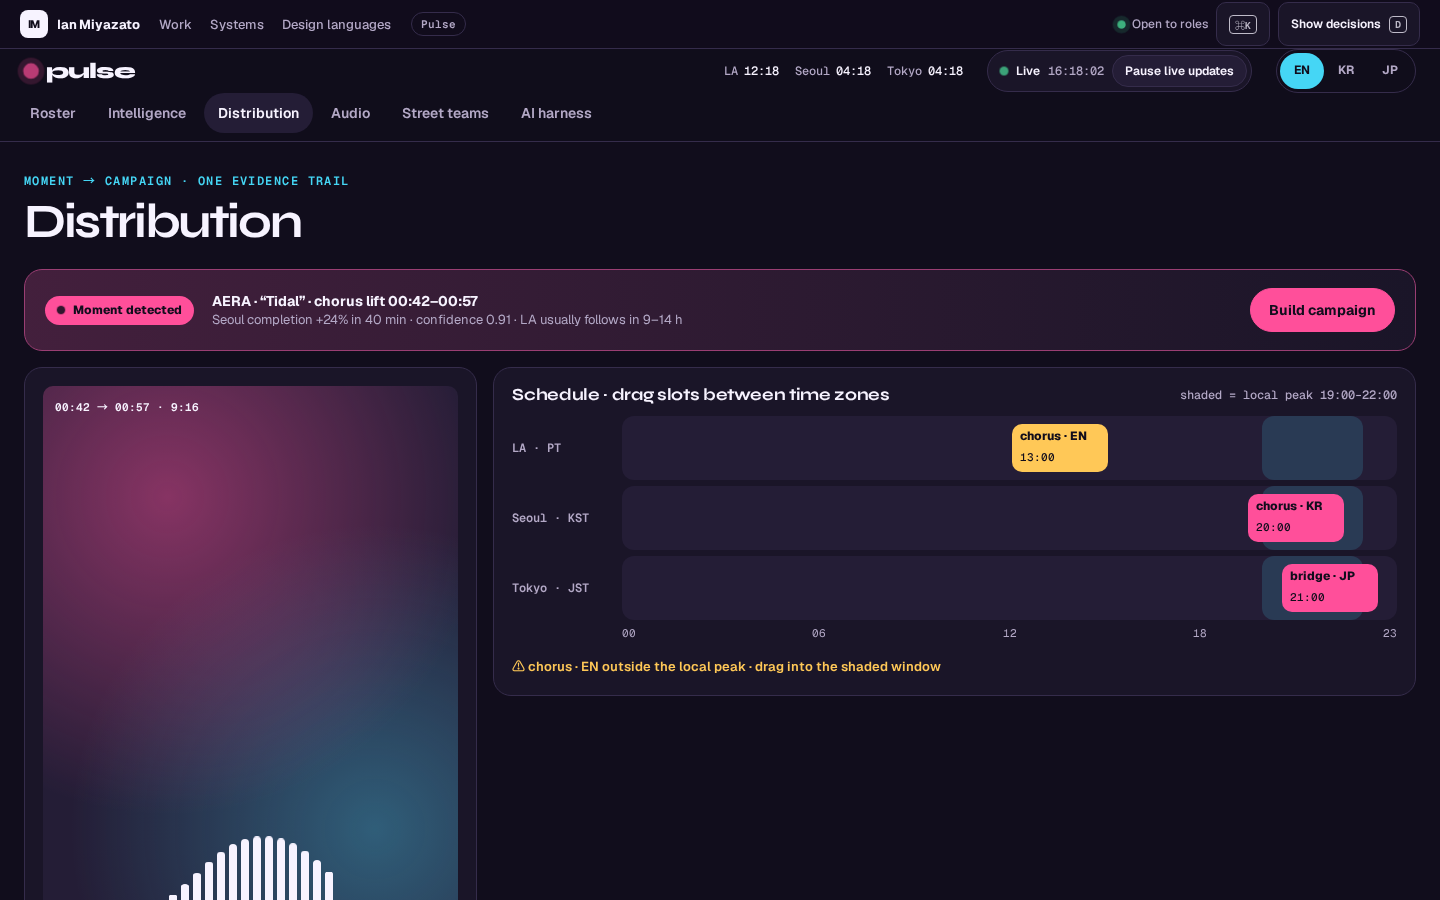
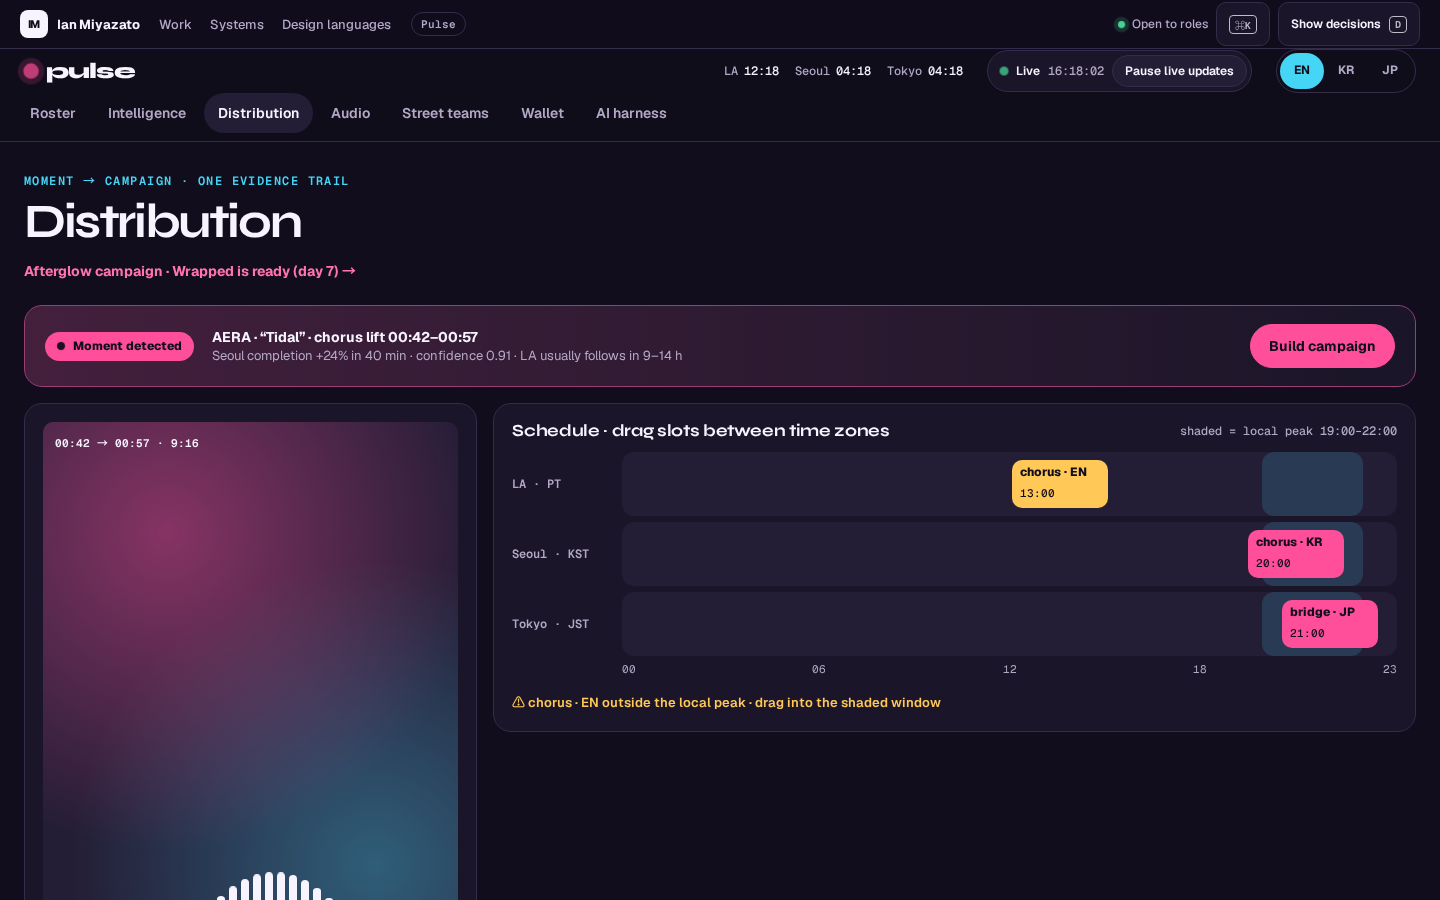
feat(pulse): Campaign Wrapped stories with label sharing and a client-side deck export

diff --git a/apps/pulse/src/routes/distribution/campaigns/afterglow/wrapped/+page.svelte b/apps/pulse/src/routes/distribution/campaigns/afterglow/wrapped/+page.svelte
@@ -1,0 +1,142 @@
+<script lang="ts">
+  import { onMount } from 'svelte';
+  import { base } from '$app/paths';
+  import { view } from '$lib/view.svelte';
+  import { live } from '$lib/world.svelte';
+  import { params } from '$lib/params.svelte';
+  import Layer from '$lib/Layer.svelte';
+  import { usd } from '$lib/wallet';
+
+  const FRAME_MS = 6000;
+  const early = $derived(view.state === 'empty');
+  const views = $derived(18_400_000 + Math.floor(live.elapsed * 42));
+  const earnings = 6_380.25;
+  const stops = [
+    { city: 'Seoul', at: 'Day 1 · 21:40 KST', views: '9.1M', x: 70, y: 40 },
+    { city: 'Tokyo', at: 'Day 2 · 08:15 JST', views: '5.8M', x: 190, y: 70 },
+    { city: 'LA', at: 'Day 3 · 19:00 PT', views: '3.5M', x: 60, y: 150 }
+  ];
+  const cards = ['views', 'moment', 'travel', 'earnings'] as const;
+  const tones = { views: 'pink', moment: 'cyan', travel: 'gold', earnings: 'ink' } as const;
+
+  let index = $state(0);
+  let paused = $state(false);
+  let held = $state(false);
+  let reduce = $state(false);
+  let revealed = $state(false);
+  let sent = $state(false);
+  let deckUrl = $state<string | null>(null);
+  onMount(() => { reduce = matchMedia('(prefers-reduced-motion: reduce)').matches; });
+
+  const stopped = $derived(paused || held || reduce || Boolean(params.get('share')));
+  $effect(() => {
+    if (stopped || early || index >= cards.length - 1) return;
+    const timer = setTimeout(() => (index += 1), FRAME_MS);
+    return () => clearTimeout(timer);
+  });
+  function key(event: KeyboardEvent) {
+    if (params.get('share')) return;
+    if (event.key === 'ArrowRight') index = Math.min(cards.length - 1, index + 1);
+    if (event.key === 'ArrowLeft') index = Math.max(0, index - 1);
+  }
+
+  /** "Export as deck": four slides drawn on one canvas, client-side, as a PNG (no upload). */
+  function exportDeck() {
+    const canvas = document.createElement('canvas');
+    canvas.width = 1600;
+    canvas.height = 900;
+    const context = canvas.getContext('2d')!;
+    const css = getComputedStyle(document.documentElement);
+    const token = (name: string) => css.getPropertyValue(name).trim();
+    const font = css.getPropertyValue('--font-display').trim();
+    const tiles: Array<[string, string, string]> = [
+      ['--accent', `${(views / 1_000_000).toFixed(1)}M views`, 'Afterglow · 7 days'],
+      ['--ai', '0:24 fan edit', 'posted by 12 pages'],
+      ['--warn', 'Seoul → Tokyo → LA', '9.1M · 5.8M · 3.5M'],
+      ['--surface-2', revealed ? usd(earnings) : 'Earnings: ask the artist', 'shared with the label']
+    ];
+    tiles.forEach(([color, big, small], tile) => {
+      const x = (tile % 2) * 800;
+      const y = Math.floor(tile / 2) * 450;
+      context.fillStyle = token(color);
+      context.fillRect(x, y, 800, 450);
+      context.fillStyle = tile === 3 ? token('--ink') : token('--accent-ink');
+      context.font = `700 64px ${font}`;
+      context.fillText(big, x + 48, y + 250);
+      context.font = `500 30px ${font}`;
+      context.fillText(small, x + 48, y + 310);
+    });
+    canvas.toBlob((blob) => { if (blob) deckUrl = URL.createObjectURL(blob); }, 'image/png');
+  }
+</script>
+
+<svelte:window onkeydown={key} />
+<svelte:head><title>Pulse · Afterglow campaign wrapped</title><meta name="description" content="Campaign Wrapped for Afterglow: views, the moment, where it traveled and earnings, generated on day 7." /></svelte:head>
+
+<main class="pl-main pcw" data-anchor="pcw-main">
+  <header class="pcw-head">
+    <span class="pl-kicker">Campaign Wrapped · generated on day 7 from the same evidence as the dashboards</span>
+    <h1>Afterglow, wrapped</h1>
+  </header>
+
+  {#if early}
+    <section class="pl-panel pcw-early" data-anchor="pcw-early">
+      <h2>Wrapped arrives on day 7</h2>
+      <p>This campaign is on day 4. Pulse builds the recap on day 7 at 06:00 KST, once the Tokyo and LA waves have had time to land.</p>
+      <a class="pl-btn" href="{base}/distribution">Back to the campaign</a>
+    </section>
+  {:else}
+    <section class="pcw-story t-{tones[cards[index]]}" aria-roledescription="story" aria-label="Card {index + 1} of {cards.length}" data-anchor="pcw-story">
+      <div class="pcw-bars" aria-hidden="true">{#each cards as card, position}<span><i class:done={position < index} class:now={position === index && !stopped} class:hold={position === index && stopped} style="animation-duration:{FRAME_MS}ms"></i></span>{/each}</div>
+      {#key index}
+        <div class="pcw-card" aria-live="polite">
+          {#if cards[index] === 'views'}
+            <span class="pcw-kicker">Seven days of Afterglow</span>
+            <h2>{(views / 1_000_000).toFixed(1)}M views</h2>
+            <div class="pr-eq big pcw-eq" aria-hidden="true">{#each Array(20) as _, bar}<i style="--i:{bar}"></i>{/each}</div>
+          {:else if cards[index] === 'moment'}
+            <span class="pcw-kicker">The moment that did it</span>
+            <h2>A 0:24 fan edit, posted by 12 pages.</h2>
+            <p>A Seoul fan page cut the hook at 21:40 KST. Every page that reposted it doubled the Tokyo wave the next morning.</p>
+          {:else if cards[index] === 'travel'}
+            <span class="pcw-kicker">Where it traveled</span>
+            <h2>Seoul → Tokyo → LA</h2>
+            <svg class="pcw-route" viewBox="0 0 260 190" role="img" aria-label="Seoul day 1, 9.1M views; Tokyo day 2, 5.8M; LA day 3, 3.5M">
+              <path d="M70 40 Q 150 20 190 70 Q 150 150 60 150" pathLength="1" />
+              {#each stops as stop}<g transform="translate({stop.x} {stop.y})"><circle r="8" /><text x="14" y="4">{stop.city} · {stop.views}</text></g>{/each}
+            </svg>
+          {:else}
+            <span class="pcw-kicker">What it earned</span>
+            <h2>{#if revealed}{usd(earnings)}{:else}<span aria-hidden="true">$ ••••</span><span class="visually-hidden">amount hidden</span>{/if}</h2>
+            <button type="button" class="pcw-reveal" aria-pressed={revealed} onclick={() => (revealed = !revealed)}>{revealed ? 'Hide earnings' : 'Tap to reveal earnings'}</button>
+            <p>Streaming, short-form royalties and the Maré sync, split by the signed sheet in the wallet.</p>
+          {/if}
+        </div>
+      {/key}
+      <button type="button" class="pcw-hit prev" aria-label="Previous card" onclick={() => (index = Math.max(0, index - 1))} onpointerdown={() => (held = true)} onpointerup={() => (held = false)} onpointerleave={() => (held = false)}></button>
+      <button type="button" class="pcw-hit next" aria-label="Next card" onclick={() => (index = Math.min(cards.length - 1, index + 1))} onpointerdown={() => (held = true)} onpointerup={() => (held = false)} onpointerleave={() => (held = false)}></button>
+      <div class="pcw-controls">
+        <button type="button" class="pcw-pause" aria-pressed={paused} onclick={() => (paused = !paused)}>{paused ? 'Play' : 'Pause'}</button>
+        <span>{index + 1} / {cards.length}</span>
+      </div>
+    </section>
+
+    <div class="pcw-actions" data-anchor="pcw-actions">
+      <button type="button" class="pl-btn primary" onclick={() => params.open({ share: 'label' })}>Share with the label</button>
+      <button type="button" class="pl-btn" onclick={exportDeck}>Export as deck</button>
+      {#if deckUrl}<a class="pl-btn" href={deckUrl} download="afterglow-wrapped-deck.png">Download deck (PNG)</a>{/if}
+    </div>
+  {/if}
+</main>
+
+{#if params.get('share') === 'label'}
+  <Layer title="Share with Haneul Records" eyebrow="Campaign Wrapped · Afterglow" onclose={() => params.close(['share'])} width={520} anchor="pcw-share">
+    <p>Sends the four cards and the evidence links (dashboards, fan-edit trail, split sheet) to the label's A&amp;R lead. Earnings are included only if you revealed them.</p>
+    <ul class="st-brief"><li><b>Views</b> {(views / 1_000_000).toFixed(1)}M in 7 days</li><li><b>Moment</b> 0:24 fan edit · 12 pages</li><li><b>Travel</b> Seoul → Tokyo → LA</li><li><b>Earnings</b> {revealed ? usd(earnings) : 'not shared'}</li></ul>
+    {#if sent}<p class="pl-banner info" role="status">Shared with Haneul Records · they'll see it in their Pulse inbox</p>{/if}
+    {#snippet footer()}
+      <button type="button" class="pl-btn primary" onclick={() => (sent = true)} disabled={sent}>{sent ? 'Shared' : 'Share'}</button>
+      <button type="button" class="pl-btn" onclick={() => params.close(['share'])}>Cancel</button>
+    {/snippet}
+  </Layer>
+{/if}

diff --git a/apps/pulse/src/app.css b/apps/pulse/src/app.css
@@ -354,3 +354,41 @@
 .pw-sent b { font: 700 20px var(--font-display); }
 .pw-sent small { color: var(--muted); }
 @media (prefers-reduced-motion: reduce) { .pw-donut .seg, .pw-sent span, .pw-face.scanning { animation: none; } .pw-lock i { transition: none; } }
+
+/* Campaign Wrapped ---------------------------------------------------------------------------------- */
+.pcw { align-items: center; }
+.pcw-head { align-self: stretch; }
+.pcw-head h1 { margin: 4px 0 0; font: var(--display-weight) 44px/1 var(--font-display); letter-spacing: var(--display-tracking); }
+.pcw-story { position: relative; display: grid; grid-template-rows: auto 1fr auto; width: min(440px, 100%); height: min(640px, calc(100vh - 300px)); min-height: 480px; padding: 16px 22px 18px; overflow: hidden; border-radius: 24px; box-shadow: var(--elevation); transition: background .5s ease, color .5s ease; }
+.pcw-story.t-pink { background: var(--accent); color: var(--accent-ink); }
+.pcw-story.t-cyan { background: var(--ai); color: var(--ai-ink); }
+.pcw-story.t-gold { background: var(--warn); color: var(--accent-ink); }
+.pcw-story.t-ink { background: var(--surface-2); color: var(--ink); }
+.pcw-bars { display: flex; gap: 4px; }
+.pcw-bars span { flex: 1; height: 4px; overflow: hidden; border-radius: 4px; background: color-mix(in srgb, currentColor 25%, transparent); }
+.pcw-bars i { display: block; height: 100%; background: currentColor; transform: scaleX(0); transform-origin: left; }
+.pcw-bars i.done { transform: none; }
+.pcw-bars i.now { animation: pcw-fill linear forwards; }
+.pcw-bars i.hold { transform: scaleX(.5); }
+@keyframes pcw-fill { to { transform: scaleX(1); } }
+.pcw-card { position: relative; z-index: 2; display: grid; align-content: end; gap: 14px; pointer-events: none; animation: rise .45s var(--ease) both; }
+.pcw-card :is(a, button) { pointer-events: auto; }
+.pcw-kicker { font: 600 13px var(--font-mono); letter-spacing: .06em; text-transform: uppercase; }
+.pcw-card h2 { margin: 0; font: 800 clamp(34px, 5vw, 50px)/0.98 var(--font-display); letter-spacing: -.03em; }
+.pcw-card p { margin: 0; font-size: 16px; line-height: 1.5; }
+.pr-eq.big.pcw-eq { color: currentColor; height: 180px; }
+.pcw-route { width: 100%; }
+.pcw-route path { fill: none; stroke: currentColor; stroke-width: 4; stroke-linecap: round; stroke-dasharray: 1; stroke-dashoffset: 1; animation: pcw-draw 1.6s var(--ease) .2s forwards; }
+.pcw-route circle { fill: currentColor; }
+.pcw-route text { fill: currentColor; font: 700 13px var(--font-mono); }
+@keyframes pcw-draw { to { stroke-dashoffset: 0; } }
+.pcw-reveal { justify-self: start; min-height: 44px; padding: 0 16px; border: 1px solid currentColor; border-radius: 999px; background: transparent; color: inherit; font-weight: 700; }
+.pcw-hit { position: absolute; top: 40px; bottom: 70px; z-index: 1; border: 0; background: transparent; cursor: pointer; }
+.pcw-hit.prev { left: 0; width: 34%; } .pcw-hit.next { right: 0; width: 66%; }
+.pcw-hit:focus-visible { outline: 3px solid currentColor; outline-offset: -8px; border-radius: 16px; }
+.pcw-controls { position: relative; z-index: 2; display: flex; justify-content: space-between; align-items: center; font: 600 13px var(--font-mono); }
+.pcw-pause { min-width: 44px; min-height: 44px; padding: 0 14px; border: 1px solid currentColor; border-radius: 999px; background: transparent; color: inherit; font-weight: 700; }
+.pcw-actions { display: flex; flex-wrap: wrap; justify-content: center; gap: 8px; }
+.pcw-early { max-width: 560px; }
+@media (prefers-reduced-motion: reduce) { .pcw-card, .pcw-bars i.now { animation: none; } .pcw-route path { animation: none; stroke-dashoffset: 0; } .pcw-story { transition: none; } }
+.pl-wrapped-link { display: inline-flex; align-items: center; min-height: 36px; color: var(--accent-text); font-weight: 700; }

diff --git a/tests/e2e/pulse.spec.ts b/tests/e2e/pulse.spec.ts
@@ -123,4 +123,27 @@ test.describe('Pulse', () => {
     await expect(phone.getByText(/Payout blocked/)).toBeVisible();
     await expect(phone.getByRole('button', { name: 'Confirm with Face ID' })).toBeDisabled();
   });
+
+  test('campaign wrapped: story cards, hidden earnings, share with the label and export', async ({ page }) => {
+    await page.goto('/pulse/distribution');
+    await page.getByRole('link', { name: /Wrapped is ready/ }).click();
+    await expect(page.getByRole('heading', { level: 1, name: 'Afterglow, wrapped' })).toBeVisible();
+    await page.getByRole('button', { name: 'Pause', exact: true }).click();
+    for (let step = 0; step < 3; step += 1) await page.keyboard.press('ArrowRight');
+    await expect(page.getByText('amount hidden')).toBeAttached();
+    await page.getByRole('button', { name: 'Tap to reveal earnings' }).click();
+    await expect(page.getByRole('heading', { level: 2, name: '$6,380.25' })).toBeVisible();
+    await page.getByRole('button', { name: 'Export as deck' }).click();
+    await expect(page.getByRole('link', { name: 'Download deck (PNG)' })).toHaveAttribute('download', 'afterglow-wrapped-deck.png');
+    await page.getByRole('button', { name: 'Share with the label' }).click();
+    const share = page.getByRole('dialog', { name: 'Share with Haneul Records' });
+    await expect(share.getByText('$6,380.25')).toBeVisible();
+    await share.getByRole('button', { name: 'Share', exact: true }).click();
+    await expect(share.getByText(/Shared with Haneul Records/)).toBeVisible();
+  });
+
+  test('campaign wrapped: a campaign younger than seven days says when it arrives', async ({ page }) => {
+    await page.goto('/pulse/distribution/campaigns/afterglow/wrapped?state=empty');
+    await expect(page.getByRole('heading', { name: 'Wrapped arrives on day 7' })).toBeVisible();
+  });
 });

diff --git a/packages/routes/src/routes.manifest.ts b/packages/routes/src/routes.manifest.ts
@@ -150,6 +150,7 @@ export const routes: RouteEntry[] = [
   { id: 'pulse-street-teams', system: 'pulse', title: 'Street teams', href: '/pulse/street-teams', zone: 'pulse', owner: pulse, board: 'PU-dispatch', heading: 'Street teams', release: '0.2', checked: '2026-09-27' },
   { id: 'pulse-wallet', system: 'pulse', title: 'Talent wallet', href: '/pulse/wallet', zone: 'pulse', owner: pulse, board: 'PU-wallet', heading: 'Wallet', release: '0.2', checked: '2026-09-27', mobile: true },
   { id: 'pulse-distribution', system: 'pulse', title: 'Distribution', href: '/pulse/distribution', zone: 'pulse', owner: pulse, board: 'PU-distribution', heading: 'Distribution', release: '0.1' },
+  { id: 'pulse-campaign-wrapped', system: 'pulse', title: 'Campaign Wrapped', href: '/pulse/distribution/campaigns/afterglow/wrapped', zone: 'pulse', owner: pulse, board: 'PU-wrapped', heading: 'Afterglow, wrapped', release: '0.2', checked: '2026-09-27', mobile: true },
   { id: 'pulse-harness', system: 'pulse', title: 'AI harness', href: '/pulse/harness', zone: 'pulse', owner: pulse, board: 'PU-harness', heading: 'AI harness', release: '0.1' },
   { id: 'system-design-pulse', system: 'pulse', title: 'Pulse system design', href: '/system-design/pulse', zone: 'shell', owner: shell, board: 'SD-pulse', heading: 'Decisions under load', release: '0.1' },
 

diff --git a/apps/pulse/src/routes/distribution/+page.svelte b/apps/pulse/src/routes/distribution/+page.svelte
@@ -81,6 +81,7 @@
   <section class="pl-hero small">
     <span class="pl-kicker">Moment → campaign · one evidence trail</span>
     <h1>{i18n.t('distribution')}</h1>
+    <a class="pl-wrapped-link" href="{base}/distribution/campaigns/afterglow/wrapped" data-anchor="pl-wrapped-link">Afterglow campaign · Wrapped is ready (day 7) →</a>
   </section>
   <section class="pl-moment" data-anchor="pl-moment">
     <span class="pl-live"><i></i>{i18n.t('detected')}</span>

diff --git a/docs/agents/changelog.md b/docs/agents/changelog.md
@@ -4,6 +4,8 @@ One line per merged micro-task, newest first.
 
 ## v0.2
 
+- 2026-09-27 · `feat(pulse)`: Campaign Wrapped at `/pulse/distribution/campaigns/afterglow/wrapped` (music-streaming stories, linked from Distribution): four cards (views with an equalizer and a live count, the 0:24 fan edit posted by 12 pages, Seoul → Tokyo → LA with a self-drawing route, earnings hidden until tapped), tap/hold/arrow keys/Pause, Share with the label (confirmation, evidence links, earnings only if revealed) and Export as deck, a client-side canvas PNG; campaigns younger than day 7 say when the recap arrives.
+
 - 2026-09-27 · `feat(pulse)`: Talent wallet at `/pulse/wallet` (digital-bank pattern), a new nav item, in three phone frames: a home screen with the payout balance hidden until the eye is tapped (USD with KRW/JPY equivalents from a static FX fixture, accruing on the world clock), quick actions and earnings by source; a split sheet donut with signature status and lock date; and a KRW payout sheet with a 30-second FX lock countdown, instant arrival and a biometric-style confirm (also opened as a page sheet from Pay out). The locked variation shows an unsigned producer split blocking the payout.
 
 - 2026-09-27 · `feat(pulse)`: Street team dispatch at `/pulse/street-teams` (ride-hailing pattern), a new nav item: a drawn SVG Seoul map (river, roads, districts, fan-density heat, pulsing venue) with creators moving along routes, an event panel (Hongdae pop-up · 19:00, needs 6, surge badge, fill bar, ETAs), Dispatch 1 more, a Broadcast brief modal, live coverage counters and a simulated-AI re-route that animates the creator's new path on approval; it replays last night's pop-up on the world clock (labeled as a replay, since it's early morning in Seoul at 16:18 in São Paulo), and a weather-cancel variation releases and pays everyone. The Pulse nav moves to its own tab row.

diff --git a/docs/agents/parity.md b/docs/agents/parity.md
@@ -78,7 +78,8 @@ Every approved screen, the design board it is checked against, and its screensho
 | 70 | `/pulse/street-teams` | PU-dispatch | Pulse | 0.2 | — | ✅ 2026-09-27 | `docs/screenshots/pulse/pulse-street-teams.png` |
 | 71 | `/pulse/wallet` | PU-wallet | Pulse | 0.2 | — | ✅ 2026-09-27 | `docs/screenshots/pulse/pulse-wallet.png` |
 | 72 | `/pulse/distribution` | PU-distribution | Pulse | 0.1 | — | ✅ 2026-09-26 | `docs/screenshots/pulse/pulse-distribution.png` |
-| 73 | `/pulse/harness` | PU-harness | Pulse | 0.1 | — | ✅ 2026-09-26 | `docs/screenshots/pulse/pulse-harness.png` |
-| 74 | `/system-design/pulse` | SD-pulse | Pulse | 0.1 | — | ✅ 2026-09-26 | `docs/screenshots/pulse/system-design-pulse.png` |
+| 73 | `/pulse/distribution/campaigns/afterglow/wrapped` | PU-wrapped | Pulse | 0.2 | — | ✅ 2026-09-27 | `docs/screenshots/pulse/pulse-campaign-wrapped.png` |
+| 74 | `/pulse/harness` | PU-harness | Pulse | 0.1 | — | ✅ 2026-09-26 | `docs/screenshots/pulse/pulse-harness.png` |
+| 75 | `/system-design/pulse` | SD-pulse | Pulse | 0.1 | — | ✅ 2026-09-26 | `docs/screenshots/pulse/system-design-pulse.png` |
 
-Parity: **74/74**.
+Parity: **75/75**.
